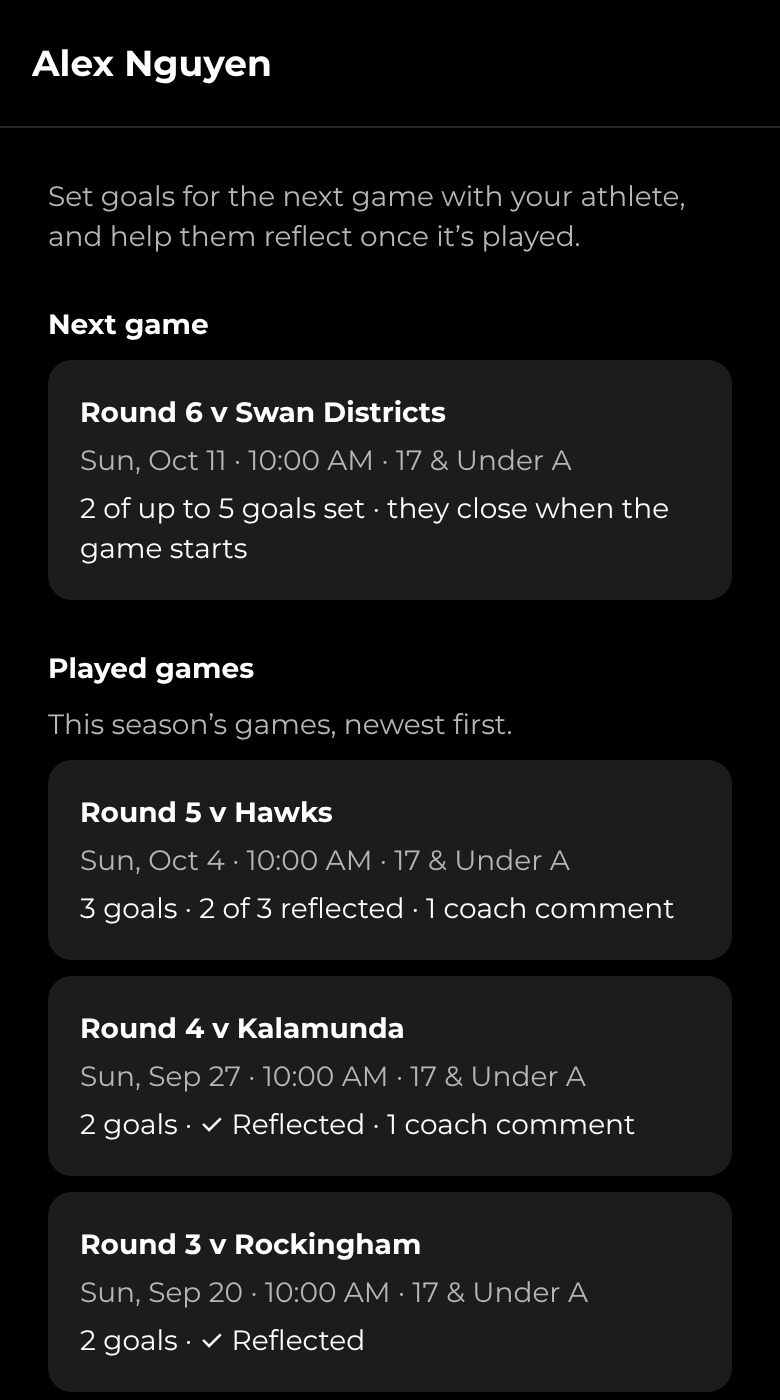
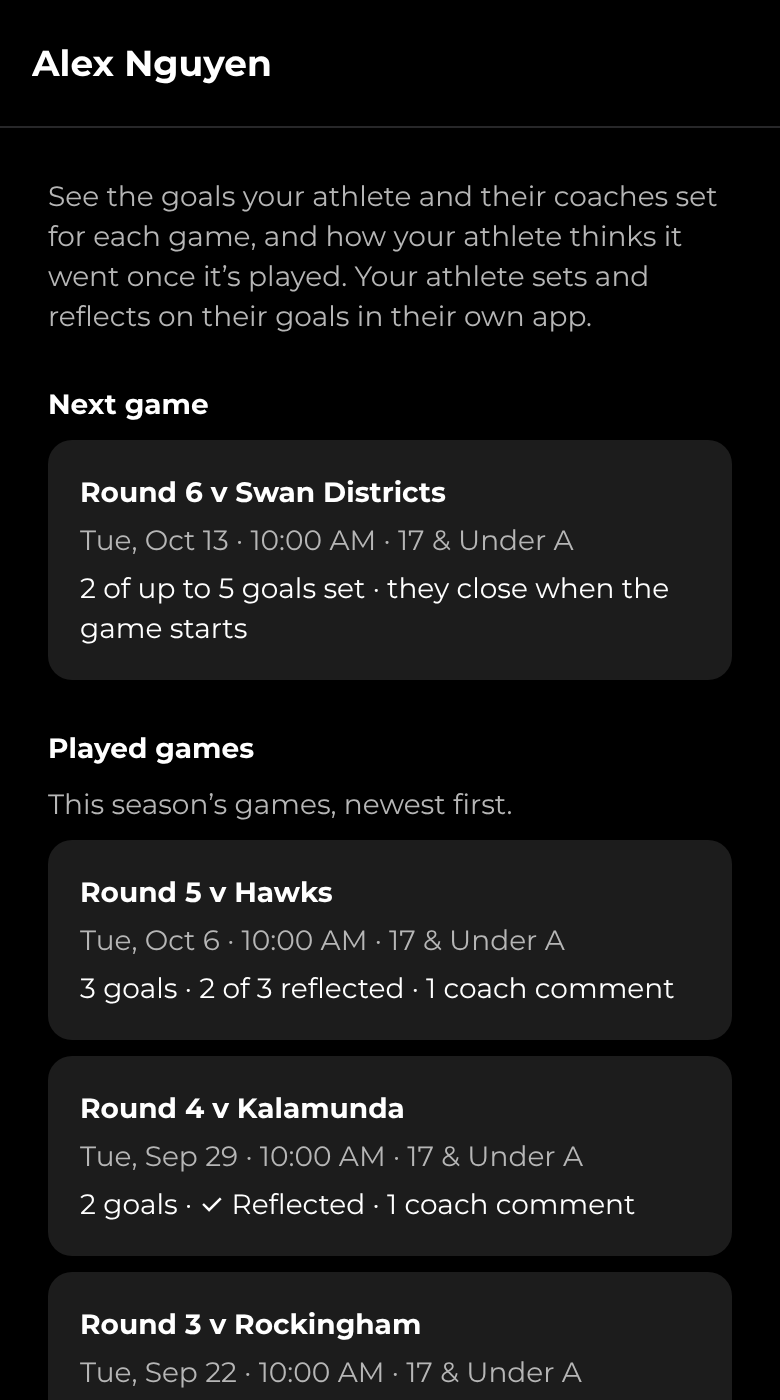
Guardians only view game goals and reflections
Athletes and coaches set goals; only the athlete reflects. Guardians
still see their athlete's goals, reflections, coach comments and team
goals, but the app shows them read-only and the database refuses their
changes (acts_for_athlete is now the athlete themselves).

Claude-Session: https://claude.ai/code/session_01MMR7BUAmS1VgxRLuEXEUEi

Changed region(s): [[0.0615, 0.1229, 0.9538, 1.0]]

diff --git a/src/app/goals/athlete/[id].tsx b/src/app/goals/athlete/[id].tsx
@@ -4,12 +4,20 @@ import { useState } from 'react';
 import { GoalGames, useGoalGames } from '@/components/goal-games';
 import { Screen } from '@/components/screen';
 import { ThemedText } from '@/components/themed-text';
-import { useIsGoalGuardian } from '@/lib/goals';
+import { useIsGoalCoach } from '@/lib/goals';
 
 /** One athlete's games, for their coaches (from a team's page) and their parents or guardians. */
 export default function AthleteGoalsScreen() {
-  const { id, name, team } = useLocalSearchParams<{ id: string; name?: string; team?: string }>();
-  const isGuardian = useIsGoalGuardian();
+  const { id, name, team, view } = useLocalSearchParams<{
+    id: string;
+    name?: string;
+    team?: string;
+    /** 'guardian' when opened from Guardian of on the home screen. */
+    view?: string;
+  }>();
+  const isCoach = useIsGoalCoach();
+  // Parents and guardians only read their athlete's goals and reflections.
+  const guardianView = view === 'guardian' || !isCoach;
   // Opened from a squad or team's page, only that group's games.
   const games = useGoalGames(id, team || undefined);
   const [refreshing, setRefreshing] = useState(false);
@@ -24,11 +32,17 @@ export default function AthleteGoalsScreen() {
     <Screen refreshing={refreshing} onRefresh={onRefresh}>
       {name ? <Stack.Screen options={{ title: name }} /> : null}
       <ThemedText type="small" themeColor="textSecondary">
-        {isGuardian
-          ? 'Set goals for the next game with your athlete, and help them reflect once it’s played.'
+        {guardianView
+          ? 'See the goals your athlete and their coaches set for each game, and how your athlete thinks it went once it’s played. Your athlete sets and reflects on their goals in their own app.'
           : 'Add goals for the next game. Once it’s played, read the athlete’s reflections and comment on each goal.'}
       </ThemedText>
-      <GoalGames athleteId={id} athleteName={name} own={isGuardian} games={games} />
+      <GoalGames
+        athleteId={id}
+        athleteName={name}
+        own={false}
+        guardianView={guardianView}
+        games={games}
+      />
     </Screen>
   );
 }

diff --git a/src/app/goals/game.tsx b/src/app/goals/game.tsx
@@ -19,7 +19,6 @@ import {
   outcomeLabel,
   outcomeOptions,
   useIsGoalCoach,
-  useIsGoalGuardian,
 } from '@/lib/goals';
 import { supabase } from '@/lib/supabase';
 import type {
@@ -32,17 +31,19 @@ import type {
 
 /** One athlete's goals for one game: set before it, reflected on after it. */
 export default function GameGoalsScreen() {
-  const { athlete, fixture, name } = useLocalSearchParams<{
+  const { athlete, fixture, name, view } = useLocalSearchParams<{
     athlete: string;
     fixture: string;
     name?: string;
+    /** 'guardian' when a parent or guardian opened it from their home screen. */
+    view?: string;
   }>();
   const { session } = useAuth();
-  const isGuardian = useIsGoalGuardian();
   const isCoach = useIsGoalCoach();
-  // The athlete, or their guardian acting for them.
-  const own = session?.user.id === athlete || isGuardian;
-  const coach = !own && isCoach;
+  // Only the athlete sets and reflects on their own goals.
+  const own = session?.user.id === athlete;
+  // Parents and guardians only read them.
+  const coach = !own && isCoach && view !== 'guardian';
 
   const [game, setGame] = useState<GoalGame | null>();
   const [goals, setGoals] = useState<GameGoal[]>([]);
@@ -99,14 +100,16 @@ export default function GameGoalsScreen() {
         </ThemedText>
         <ThemedText type="small" themeColor="textSecondary">
           {phase === 'open'
-            ? 'Goals can be added and changed until the game starts.'
+            ? own || coach
+              ? 'Goals can be added and changed until the game starts.'
+              : 'Your athlete and their coaches can add goals until the game starts.'
             : phase === 'playing'
               ? 'Game on. Reflections open after the game.'
               : own
                 ? 'How did it go? Pick how each goal went and add a few words.'
                 : coach
                   ? 'Read how the athlete thinks it went and add your comments.'
-                  : 'How the game went.'}
+                  : 'How the athlete thinks it went, and what their coaches said.'}
         </ThemedText>
       </View>
 

diff --git a/src/components/goal-games.tsx b/src/components/goal-games.tsx
@@ -75,12 +75,15 @@ export function GoalGames({
   athleteId,
   athleteName,
   own,
+  guardianView = false,
   games,
 }: {
   athleteId: string;
   athleteName?: string;
-  /** The athlete or their guardian is looking, rather than a coach. */
+  /** The athlete is looking, rather than a coach or guardian. */
   own: boolean;
+  /** A parent or guardian is looking: games open read-only. */
+  guardianView?: boolean;
   games: ReturnType<typeof useGoalGames>;
 }) {
   const { next, past, more, loadingMore, error, loadMore } = games;
@@ -88,7 +91,12 @@ export function GoalGames({
   function open(game: GoalGame) {
     router.push({
       pathname: '/goals/game',
-      params: { athlete: athleteId, fixture: game.fixture_id, name: athleteName ?? '' },
+      params: {
+        athlete: athleteId,
+        fixture: game.fixture_id,
+        name: athleteName ?? '',
+        ...(guardianView ? { view: 'guardian' } : {}),
+      },
     });
   }
 

diff --git a/src/app/index.tsx b/src/app/index.tsx
@@ -305,7 +305,10 @@ export default function HomeScreen() {
             <PressableCard
               key={a.id}
               onPress={() =>
-                router.push({ pathname: '/goals/athlete/[id]', params: { id: a.id, name: a.name } })
+                router.push({
+                  pathname: '/goals/athlete/[id]',
+                  params: { id: a.id, name: a.name, view: 'guardian' },
+                })
               }>
               <ThemedText type="smallBold">{a.name}</ThemedText>
               <ThemedText type="small" themeColor="textSecondary">

diff --git a/src/lib/goals.ts b/src/lib/goals.ts
@@ -91,12 +91,6 @@ export function useIsGoalAthlete() {
   return profile?.status === 'approved' && hasRole(profile, 'athlete');
 }
 
-/** Parents and guardians act for their athletes. */
-export function useIsGoalGuardian() {
-  const { profile } = useAuth();
-  return profile?.status === 'approved' && hasRole(profile, 'guardian');
-}
-
 /**
  * Coaches of a current squad or team add goals and comment. Like check-ins, a
  * squad's coaches stop once its squad phase is complete.

diff --git a/docs/user-guide.md b/docs/user-guide.md
@@ -77,7 +77,7 @@ What each role sees on its home screen:
 | Read messages                          |    ✓    |        ✓        |      ✓       |     ✓      |       ✓       |       ✓*      |         |       ✓       |
 | Send messages                          | Captains† |                 |  Own groups  | Own groups |   Whole club  |               |         |     Anyone    |
 | Daily check-in                         |    ✓    |                 |              |            |               |               |         |               |
-| Game goals and reflections             |   Own   | Their athlete's | Own athletes |            |               |               |         |               |
+| Game goals and reflections             |   Own   |  See athlete's  | Own athletes |            |               |               |         |               |
 | Team goals for a game                  |   See   |       See       | Set, review  |            |               |               |         |               |
 | Check-ins of others                    |         |                 | Own athletes |            | Averages only | Averages only |         | Averages only |
 | Report an injury                       |   Own   | Their athlete's |              |            |               |               |         |               |
@@ -403,7 +403,8 @@ the team's games at the top and the people in it underneath.
   older ones. Games drop off the list when an admin archives the season.
 
 Your coaches can see your goals and reflections. If you're under 18, your parents or guardians can
-too, and they can set goals and reflect for you. Bye rounds are left out.
+see them too, but only you and your coaches set goals, and only you reflect on yours. Bye rounds are
+left out.
 
 **Team goals** that your coaches set for the whole team show at the top of the game,
 above your own goals. After the game you'll see how the coaches think the team went on each one.
@@ -493,9 +494,10 @@ As a guardian you:
 - **See your athlete's daily check-ins**, including any note they write. Your athlete is told that
   you can read their notes.
 - **See the calendars** for your athlete's squad.
-- **Set game goals and reflect** for your athlete, exactly as an athlete does (see
+- **See your athlete's game goals and reflections**: the goals they and their coaches set for
+  each game, how your athlete thinks each one went, their coaches' comments and the team goals (see
   [Game goals](#game-goals)). Tap your athlete under **Guardian of** on the home screen to see all
-  their games.
+  their games. You can't set goals or reflect: your athlete and their coaches do that in the app.
 - **Report and update injuries** for your athlete, and ask for clearance, exactly as an athlete
   does (see [Athletes](#4-athletes)). If you look after more than one athlete, choose which one
   when reporting.
@@ -506,6 +508,7 @@ As a guardian you:
 <img src="user-guide/guardian-home.png" width="210" alt="Guardian home screen">
 <img src="user-guide/training-guardian.png" width="210" alt="A guardian's view of their athlete's training, one sent back">
 <img src="user-guide/goals-guardian.png" width="210" alt="An athlete's games, opened by their guardian">
+<img src="user-guide/goals-guardian-played.png" width="210" alt="A guardian reading their athlete's goals, reflections and coach comments">
 
 <div style="page-break-before: always"></div>
 
@@ -1222,7 +1225,7 @@ once saved, only replaced or removed.
 | Read receipts           | The sender and admins.                                                                                                      |
 | Daily check-in answers and notes | The athlete, their guardians and their coaches. The committee, physios and admins see only group averages, hidden below 3 check-ins. |
 | Injuries and documents  | The athlete, their guardians, their coaches, physios, the committee and admins. Managers don't see injuries. Only the committee and admins can save or share documents; everyone else views them in the app. |
-| Game goals and reflections | The athlete, their guardians and their coaches. The committee, physios and admins don't see them. |
+| Game goals and reflections | The athlete, their guardians and their coaches. Only the athlete and their coaches set goals, and only the athlete reflects; guardians just read them. The committee, physios and admins don't see them. |
 | Team goals              | The team's athletes, their guardians and its coaches. Only its coaches set and review them. |
 | Integrity training certificates | The member, their parents or guardians, the committee and admins. Coaches don't see them. Certificates can't be changed or removed once sent. |
 | Attendance records      | Coaches, the committee and admins. Managers see their own groups' sessions. Athletes and guardians don't see attendance.    |
